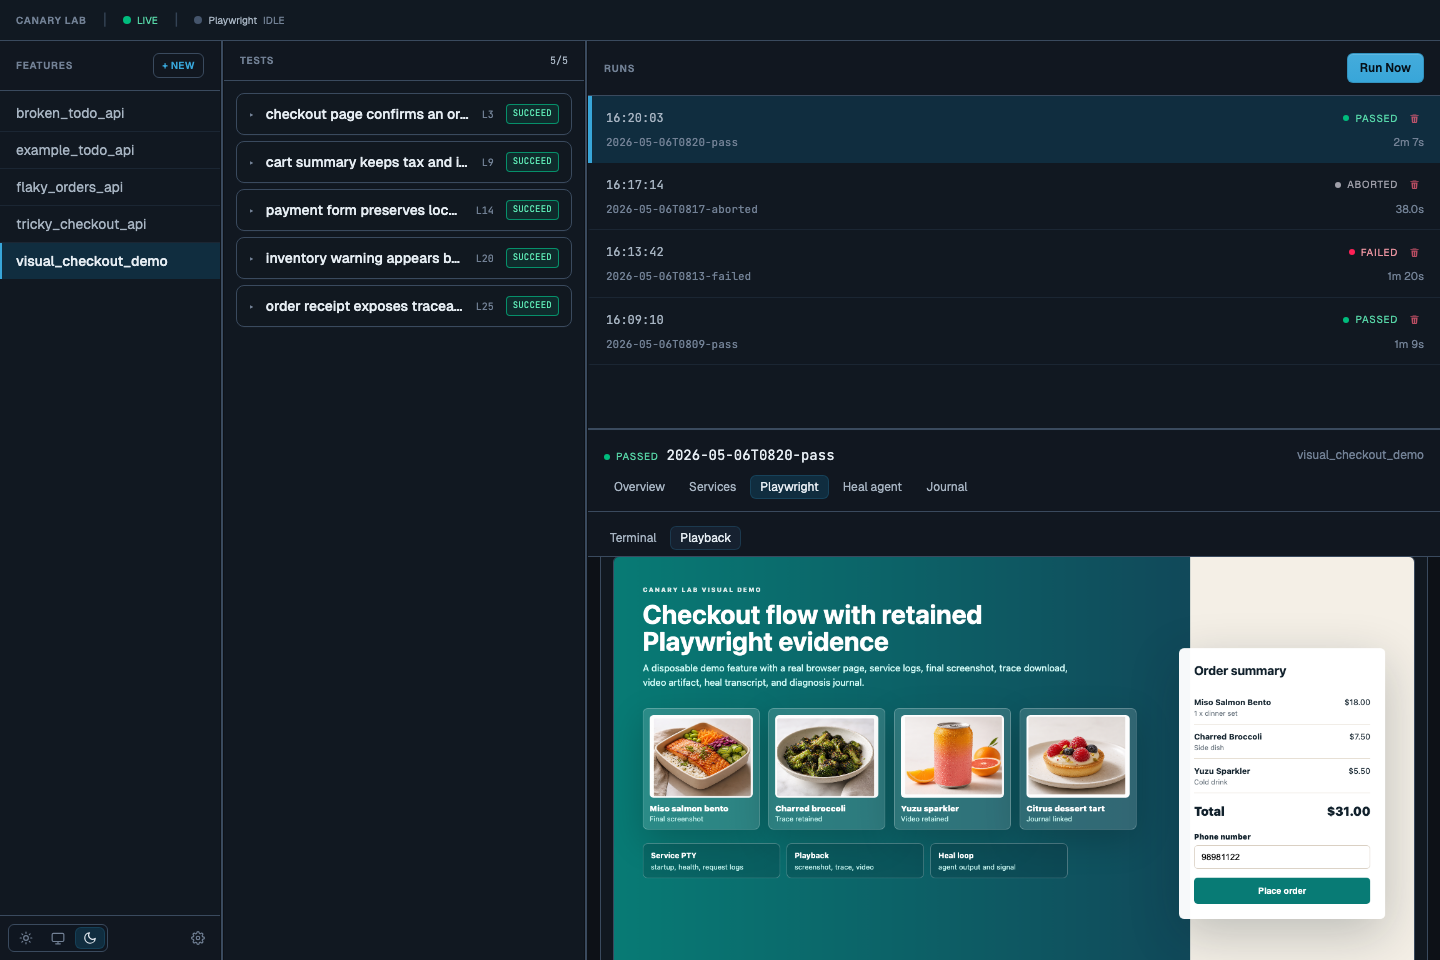
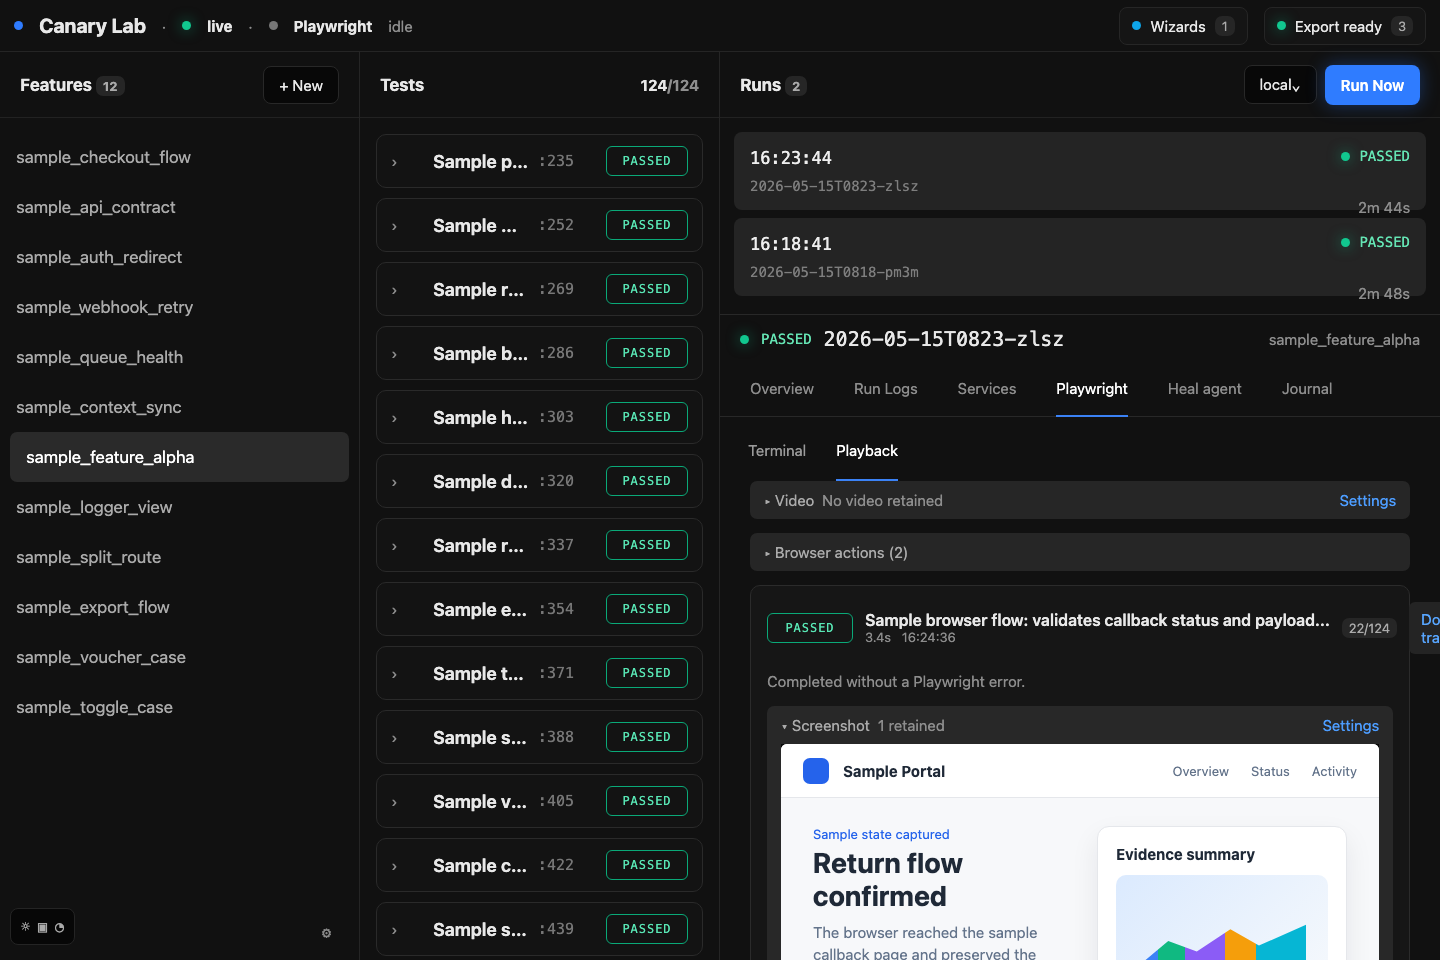
fix: update UI walkthrough image and remove unnecessary link

diff --git a/README.md b/README.md
@@ -9,7 +9,7 @@ I wanted an inner loop where I describe a feature, the tests run, an agent reads
 
 It only works because three other things keep getting better. Playwright keeps catching things I'd miss. Claude and Codex keep getting better at reading evidence and editing code. node-pty and the surrounding ecosystem make the orchestration boring. I didn't build the hard parts — I'm assembling them.
 
-[![Canary Lab UI walkthrough](docs/assets/canary-lab-ui-walkthrough.png)](docs/assets/canary-lab-ui-walkthrough.gif)
+![Canary Lab UI walkthrough](docs/assets/canary-lab-ui-walkthrough.png)
 
 See [CHANGELOG.md](CHANGELOG.md) for what's new in each release.
 